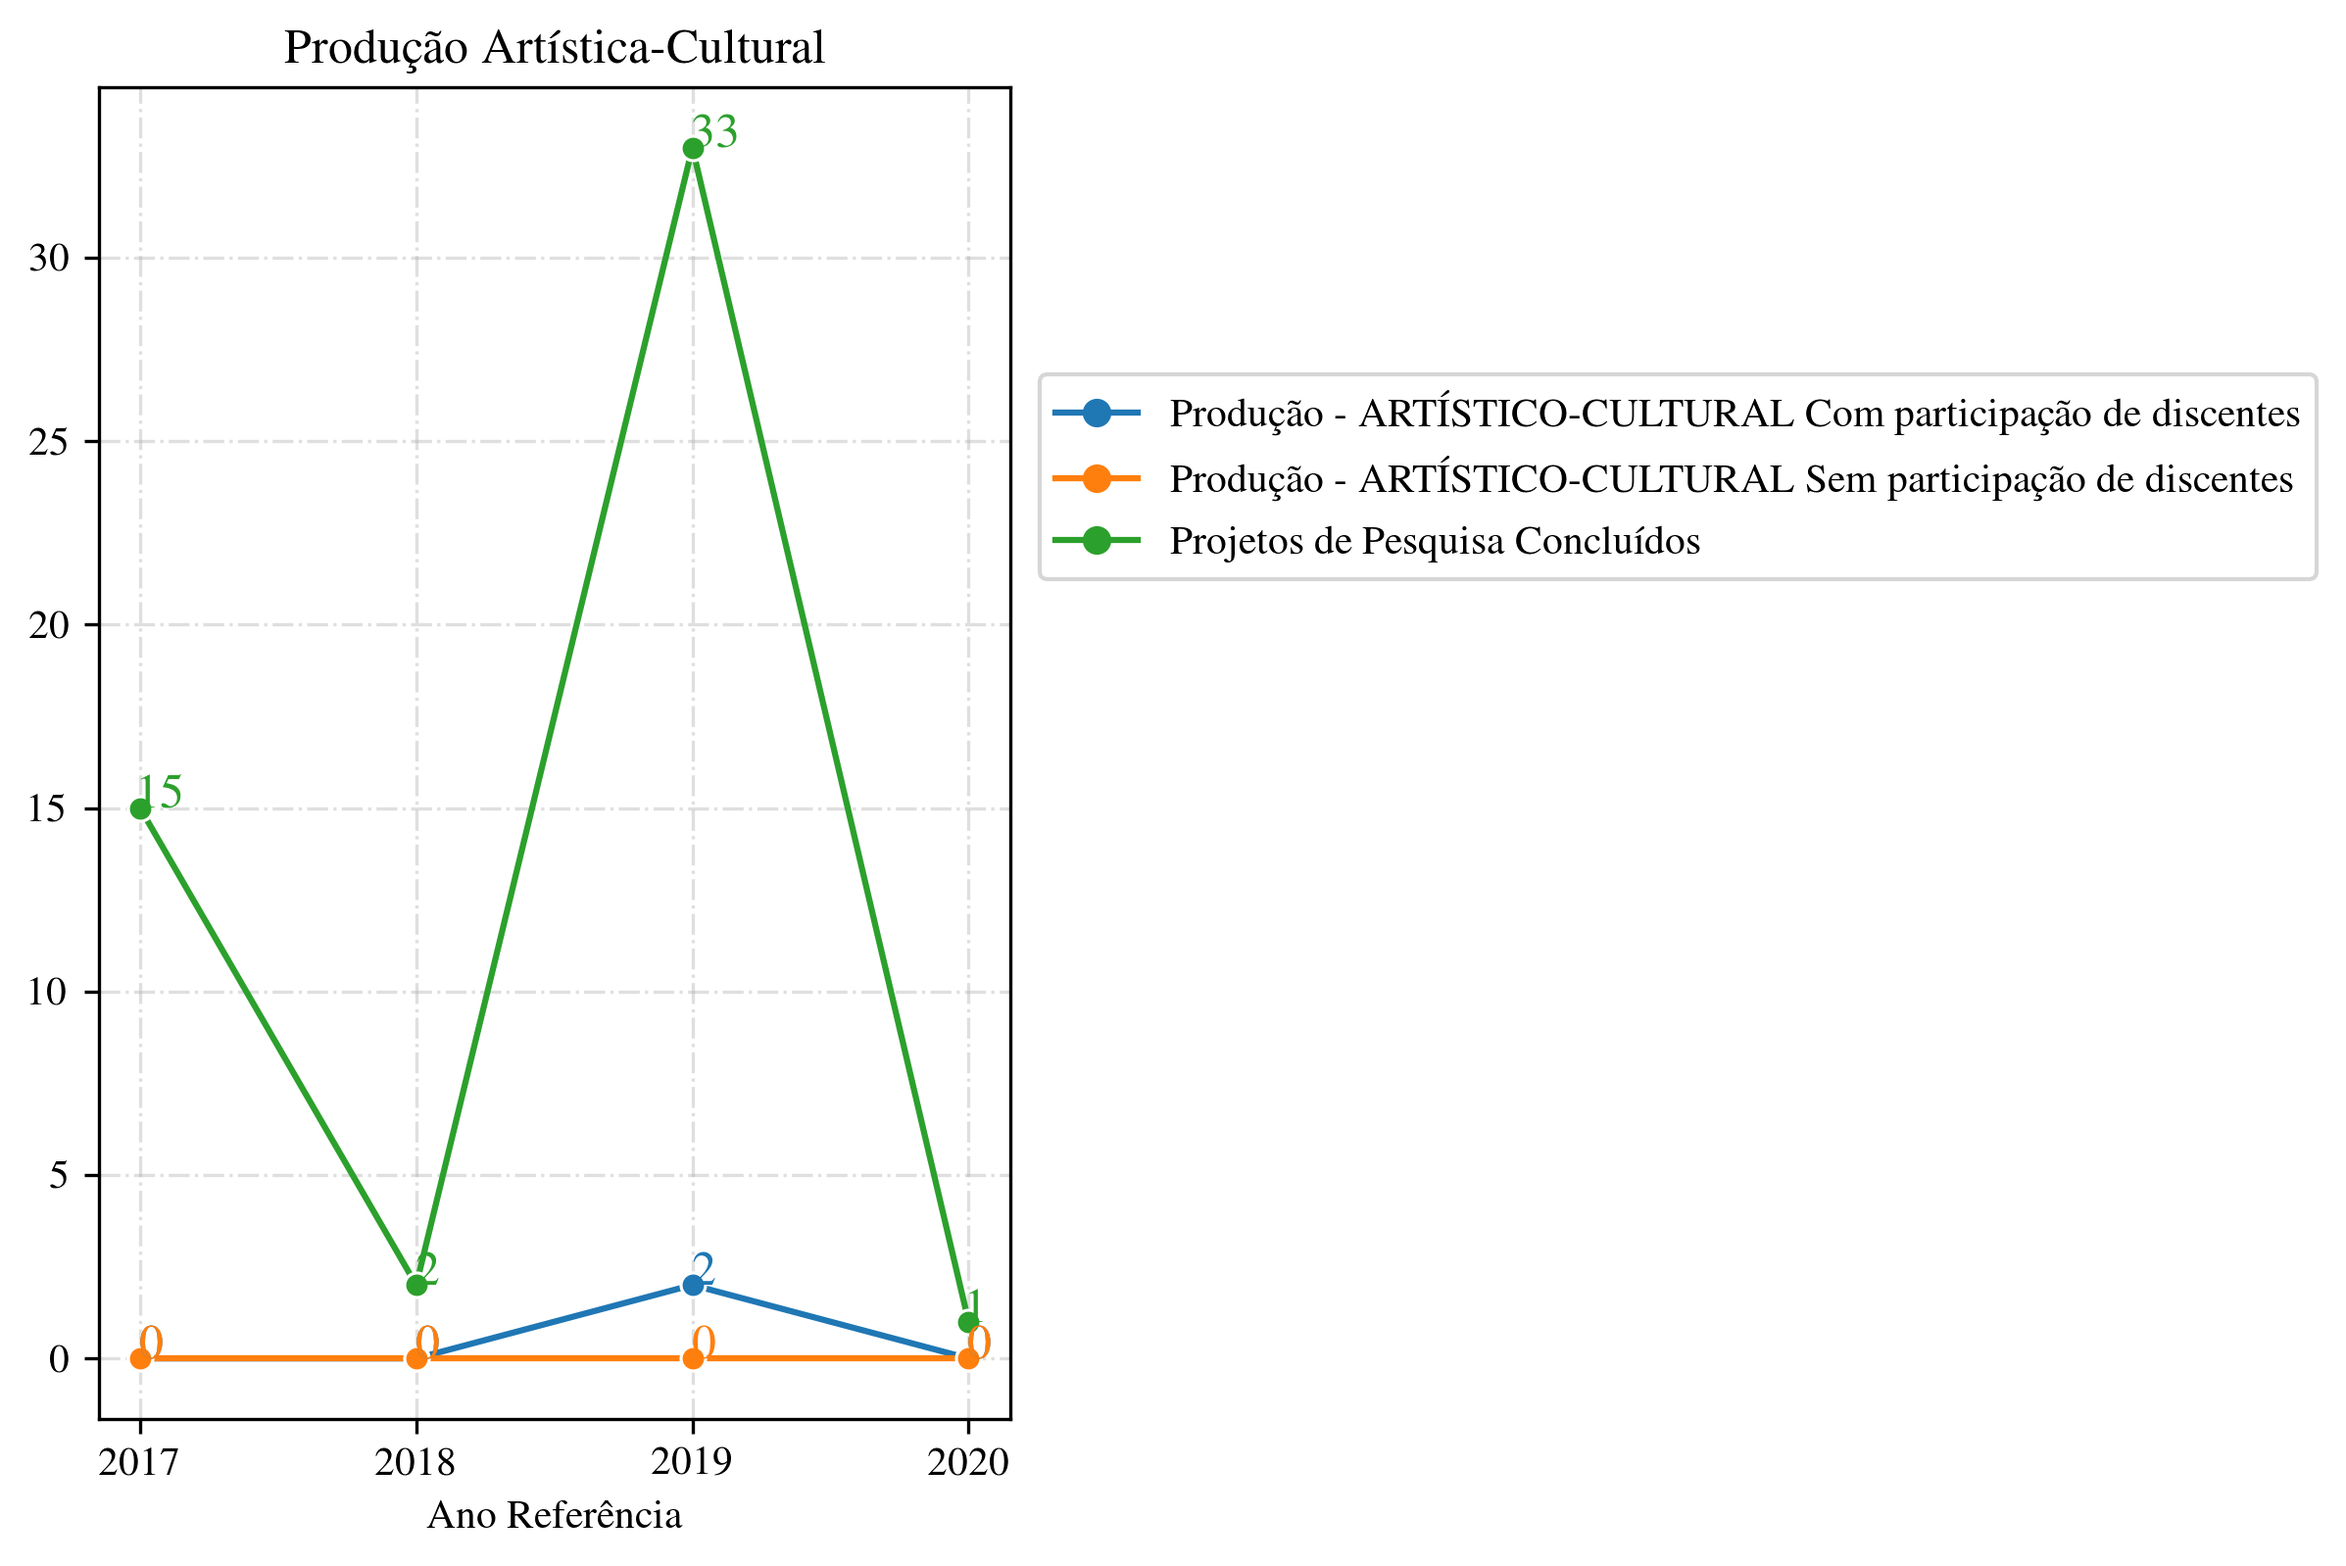
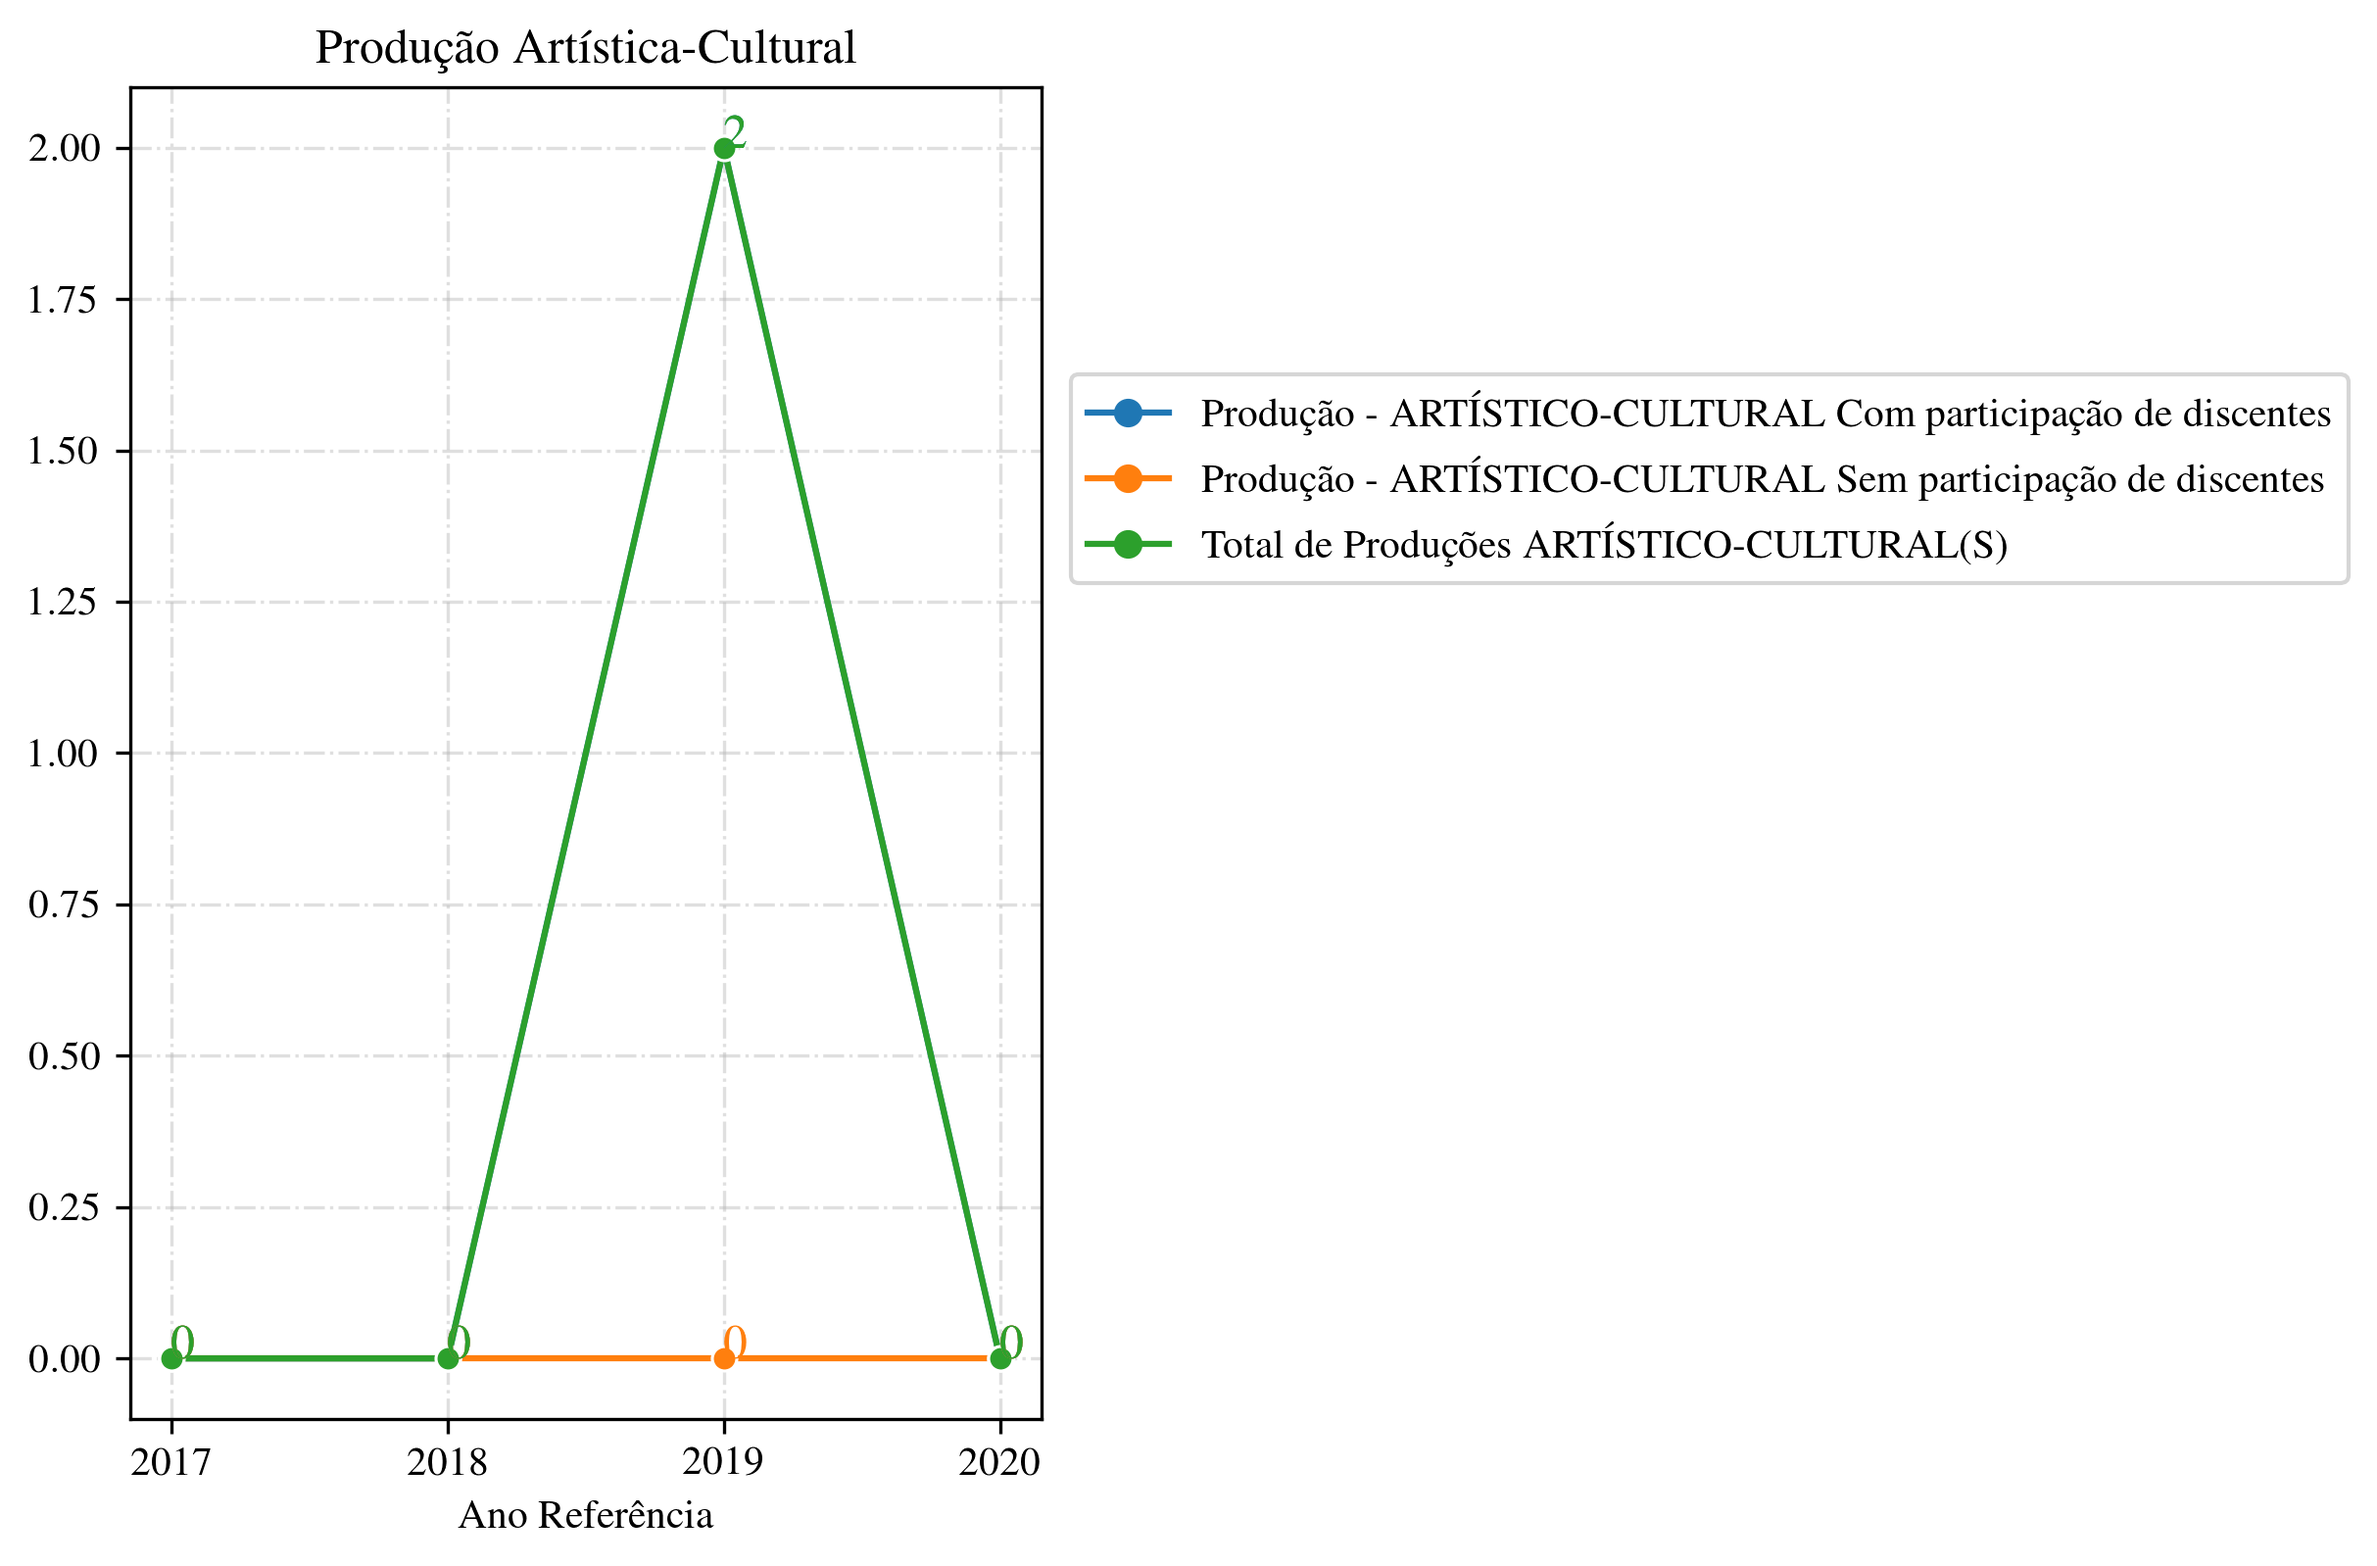
goliatt sex mar  5 22:54:37 -03 2021

diff --git a/analise_sucupira.py b/analise_sucupira.py
@@ -72,10 +72,10 @@ for (a,b), df in A.groupby([c[0],c[1]]):
         ('Participantes Externos'               , c[2:3]+c[25:26] ),        
         ('Egressos'                             , c[2:3]+c[27:29]+c[49:50]),        
         ('Disciplinas e Turmas'                 , c[2:3]+c[30:31]+c[32:33] ),
-        ('Produção Artística-Cultural'          , c[2:3]+c[37:40] ),
-        ('Produção Bibliográfica'               , c[2:3]+c[40:43] ),
-        ('Produção Técnica'                     , c[2:3]+c[43:46] ),
-        ('Trabalhos de Conclusão'               , c[2:3]+c[46:49] ),
+        ('Produção Artística-Cultural'          , c[2:3]+c[38:41] ),
+        ('Produção Bibliográfica'               , c[2:3]+c[41:44] ),
+        ('Produção Técnica'                     , c[2:3]+c[44:47] ),
+        ('Trabalhos de Conclusão'               , c[2:3]+c[47:49] ),
         ]   
     
     
